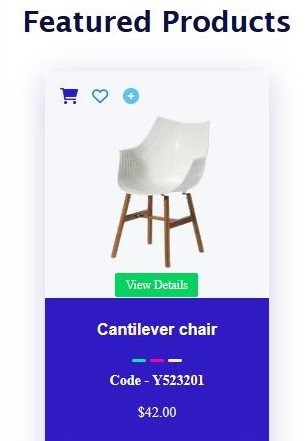
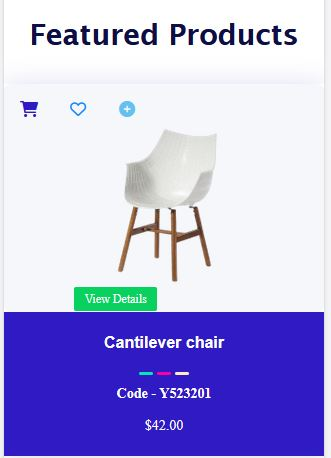
new features added

diff --git a/style1.css b/style1.css
@@ -231,7 +231,7 @@ line-height: 1.5rem;
     display: grid;
     grid-template-columns: 1fr;
      gap:1rem ;
-    width: 70%;
+    /* width: 70%; */
     overflow: hidden;
     margin: auto;
     box-shadow: rgba(8, 8, 143, 0.2) 0px 7px 29px 0px;
@@ -616,7 +616,7 @@ background: whitesmoke;
 .shopex-grid-card-container{
     display: grid;
     grid-template-columns: 1fr;
-     gap:1rem ;
+    gap:1rem ;
     width: 70%;
     overflow: hidden;
     margin: auto;
@@ -862,7 +862,8 @@ background: whitesmoke;
 .TP-price-and-desc{
     display: flex;
     padding-top: 0.9rem;
-    margin-left: 3.5rem;        
+    margin-left: 3.5rem; 
+    /* justify-content: space-between;        */
    
 
 }
